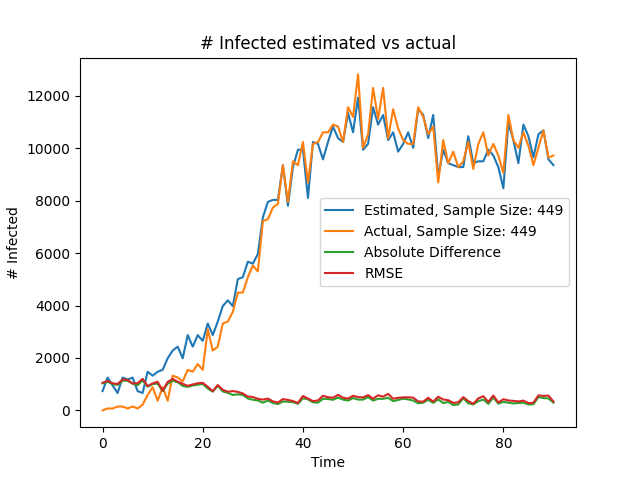
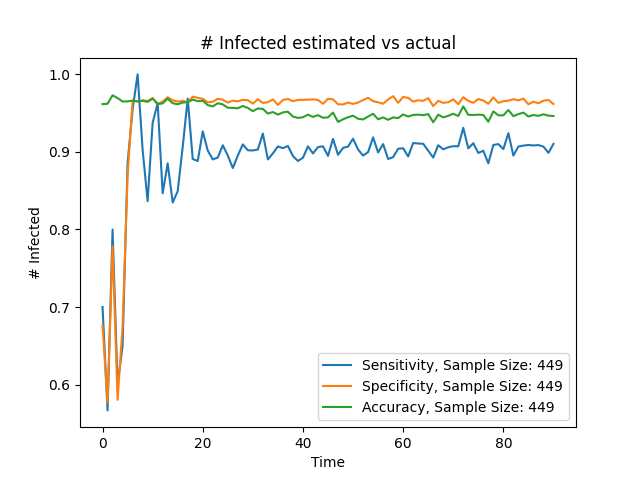
Added test statistics

diff --git a/epios/post_process.py b/epios/post_process.py
@@ -658,16 +658,25 @@ class PostProcess():
                     for i in range(len(time_sample)):
 
                         #infected_rate.append(ite.iloc[i].value_counts().get('Positive', 0) / len(people))
-                        est_rate = ite.iloc[i].value_counts().get('[Positive, True]', 0) / len(people)
-                        est_rate += ite.iloc[i].value_counts().get('[Positive, False]', 0) / len(people)
+                        #est_rate = ite.iloc[i].value_counts().get('[Positive, True]', 0) / len(people)
+                        #est_rate += ite.iloc[i].value_counts().get('[Positive, False]', 0) / len(people)
 
-                        act_rate = ite.iloc[i].value_counts().get('[Positive, True]', 0) / len(people)
-                        act_rate += ite.iloc[i].value_counts().get('[Negative, False]', 0) / len(people)
+                        #act_rate = ite.iloc[i].value_counts().get('[Positive, True]', 0) / len(people)
+                        #act_rate += ite.iloc[i].value_counts().get('[Negative, False]', 0) / len(people)
 
-                        estimated_infected_rate.append(est_rate)
-                        actual_infected_rate.append(act_rate)
+                        #estimated_infected_rate.append(est_rate)
+                        #actual_infected_rate.append(act_rate)
 
-                        infected_rate.append([est_rate, act_rate])
+                        #infected_rate.append([est_rate, act_rate])
+
+                        TP = ite.iloc[i].value_counts().get('[Positive, True]', 0) / len(people)
+                        FP = ite.iloc[i].value_counts().get('[Positive, False]', 0) / len(people)
+                        TN = ite.iloc[i].value_counts().get('[Negative, True]', 0) / len(people)
+                        FN = ite.iloc[i].value_counts().get('[Negative, False]', 0) / len(people)
+
+                        #infected_rate.append([est_rate, act_rate])
+
+                        infected_rate.append([TP, FP, TN, FN])
 
                 elif sample_strategy == 'Random':  # Change people sampled at each sample time point
 
@@ -701,16 +710,23 @@ class PostProcess():
                         # Output the infected rate
                         #infected_rate.append(ite.iloc[0].value_counts().get('Positive', 0) / len(people))
 
-                        est_rate = ite.iloc[0].value_counts().get('[Positive, True]', 0) / len(people)
-                        est_rate += ite.iloc[0].value_counts().get('[Positive, False]', 0) / len(people)
+                        #est_rate = ite.iloc[0].value_counts().get('[Positive, True]', 0) / len(people)
+                        #est_rate += ite.iloc[0].value_counts().get('[Positive, False]', 0) / len(people)
 
-                        act_rate = ite.iloc[0].value_counts().get('[Positive, True]', 0) / len(people)
-                        act_rate += ite.iloc[0].value_counts().get('[Negative, False]', 0) / len(people)
+                        #act_rate = ite.iloc[0].value_counts().get('[Positive, True]', 0) / len(people)
+                        #act_rate += ite.iloc[0].value_counts().get('[Negative, False]', 0) / len(people)
 
-                        estimated_infected_rate.append(est_rate)
-                        actual_infected_rate.append(act_rate)
+                        #estimated_infected_rate.append(est_rate)
+                        #actual_infected_rate.append(act_rate)
 
-                        infected_rate.append([est_rate, act_rate])
+                        #infected_rate.append([est_rate, act_rate])
+
+                        TP = ite.iloc[0].value_counts().get('[Positive, True]', 0) / len(people)
+                        FP = ite.iloc[0].value_counts().get('[Positive, False]', 0) / len(people)
+                        TN = ite.iloc[0].value_counts().get('[Negative, True]', 0) / len(people)
+                        FN = ite.iloc[0].value_counts().get('[Negative, False]', 0) / len(people)
+
+                        infected_rate.append([TP, FP, TN, FN])
 
             # Plot the figure
             if gen_plot:
@@ -777,23 +793,21 @@ class PostProcess():
 
                     #infected_rate.append(ite.iloc[i].value_counts().get('Positive', 0) / len(people))
 
-                    est_rate = ite.iloc[i].value_counts().get('[Positive, True]', 0) / len(people)
-                    est_rate += ite.iloc[i].value_counts().get('[Positive, False]', 0) / len(people)
+                    TP = ite.iloc[i].value_counts().get('[Positive, True]', 0) / len(people)
+                    FP = ite.iloc[i].value_counts().get('[Positive, False]', 0) / len(people)
+                    TN = ite.iloc[i].value_counts().get('[Negative, True]', 0) / len(people)
+                    FN = ite.iloc[i].value_counts().get('[Negative, False]', 0) / len(people)
 
-                    act_rate = ite.iloc[i].value_counts().get('[Positive, True]', 0) / len(people)
-                    act_rate += ite.iloc[i].value_counts().get('[Negative, False]', 0) / len(people)
+                    #infected_rate.append([est_rate, act_rate])
 
-                    estimated_infected_rate.append(est_rate)
-                    actual_infected_rate.append(act_rate)
-
-                    infected_rate.append([est_rate, act_rate])
+                    infected_rate.append([TP, FP, TN, FN])
 
 
 
             elif sample_strategy == 'Random':  # Change people sampled at each sample time point
                 infected_rate = []
-                estimated_infected_rate = []
-                actual_infected_rate = []
+                #estimated_infected_rate = []
+                #actual_infected_rate = []
 
                 for i in range(len(time_sample)):  # Sample at each sample time points
                     if i == 0:  # First time sampling, need pre_process
@@ -822,10 +836,10 @@ class PostProcess():
 
                     # Get # true positive, false positive, true negative and false negative
 
-                    TP = ite.iloc[0].value_counts().get('[Positive, True]', 0)
-                    FP = ite.iloc[0].value_counts().get('[Positive, False]', 0)
-                    TN = ite.iloc[0].value_counts().get('[Negative, True]', 0)
-                    FN = ite.iloc[0].value_counts().get('[Negative, False]', 0)
+                    TP = ite.iloc[0].value_counts().get('[Positive, True]', 0) / len(people)
+                    FP = ite.iloc[0].value_counts().get('[Positive, False]', 0) / len(people)
+                    TN = ite.iloc[0].value_counts().get('[Negative, True]', 0) / len(people)
+                    FN = ite.iloc[0].value_counts().get('[Negative, False]', 0) / len(people)
 
                     #print("TP: ", TP)
                     #print("FP: ", FP)
@@ -834,16 +848,18 @@ class PostProcess():
 
 
 
-                    est_rate = TP / len(people)
-                    est_rate += FP / len(people)
+                    #est_rate = TP / len(people)
+                    #est_rate += FP / len(people)
 
-                    act_rate = TP / len(people)
-                    act_rate += FN / len(people)
+                    #act_rate = TP / len(people)
+                    #act_rate += FN / len(people)
 
-                    estimated_infected_rate.append(est_rate)
-                    actual_infected_rate.append(act_rate)
+                    #estimated_infected_rate.append(est_rate)
+                    #actual_infected_rate.append(act_rate)
 
-                    infected_rate.append([est_rate, act_rate])
+                    #infected_rate.append([est_rate, act_rate])
+
+                    infected_rate.append([TP, FP, TN, FN])
 
             # Plot the figure
             if gen_plot:

diff --git a/gibraltar_ex/accuracy_measure.py b/gibraltar_ex/accuracy_measure.py
@@ -240,6 +240,11 @@ def get_prevalence_percentage_error(sample_times,
         total_differences = np.zeros(len(sample_times))
         total_square_differences = total_differences.copy()
 
+
+        total_sensitivity = np.zeros(len(sample_times))
+        total_specificity = np.zeros(len(sample_times))
+        total_test_accuracy = np.zeros(len(sample_times))
+
         # Run multiple iterations
         for _ in range(num_iterations):  # Change the number of iterations as needed
 
@@ -263,8 +268,28 @@ def get_prevalence_percentage_error(sample_times,
 
             pop_size = len(demo_data) # get population size
 
-            est_infected = [r[0] * pop_size for r in result]      
-            act_infected = [r[1] * pop_size for r in result]    
+            TP =[r[0] * pop_size for r in result]
+            FP =[r[1] * pop_size for r in result]
+            TN =[r[2] * pop_size for r in result]
+            FN =[r[3] * pop_size for r in result]
+
+            est_infected = [TP[i] + FP[i] for i in range(len(TP))]
+            act_infected = [TP[i] + FN[i] for i in range(len(TP))]
+
+            
+        
+
+            sensitivity = [0 if TP[i] == 0 else TP[i] / (TP[i] + FN[i]) for i in range(len(TP))]
+            specificity = [0 if TP[i] == 0 else TN[i] / (TN[i] + FP[i]) for i in range(len(TP))]
+            test_accuracy = [(TP[i] + TN[i])/(TP[i] + TN[i] + FP[i] + FN[i]) for i in range(len(TP))]
+
+            total_sensitivity = [total_sensitivity[i] + sensitivity[i] for i in range(len(sensitivity))]
+            total_specificity = [total_specificity[i] + specificity[i] for i in range(len(specificity))]
+            total_test_accuracy = [total_test_accuracy[i] + test_accuracy[i] for i in range(len(test_accuracy))]
+
+
+            #est_infected = [r[0] * pop_size for r in result]      
+            #act_infected = [r[1] * pop_size for r in result]    
 
             difference = [abs(est_infected[i] - act_infected[i]) for i in range(len(est_infected))]
 
@@ -284,12 +309,29 @@ def get_prevalence_percentage_error(sample_times,
 
         rmse = [np.sqrt(av_square_difference[i]) for i in range(len(av_square_difference))]
 
+        av_sensitivity = [total_sensitivity[i] / num_iterations for i in range(len(total_sensitivity))]
+        av_specificity = [total_specificity[i] / num_iterations for i in range(len(total_specificity))]
+        av_test_accuracy = [total_test_accuracy[i] / num_iterations for i in range(len(total_test_accuracy))]
 
-        plt.plot(sample_times, est_infected, label=f"Estimated, Sample Size: {sample_size}")
-        plt.plot(sample_times, act_infected, label=f"Actual, Sample Size: {sample_size}")
-        plt.plot(sample_times, absolute_difference, label="Absolute Difference")
-        plt.plot(sample_times, rmse, label="RMSE")
-        #plt.plot(sample_times, average_difference, label="Expected Absolute Difference")
+        plot_time_graphs = False
+
+        if plot_time_graphs:
+
+            plt.plot(sample_times, est_infected, label=f"Estimated, Sample Size: {sample_size}")
+            plt.plot(sample_times, act_infected, label=f"Actual, Sample Size: {sample_size}")
+            plt.plot(sample_times, absolute_difference, label="Absolute Difference")
+            plt.plot(sample_times, rmse, label="RMSE")
+            #plt.plot(sample_times, average_difference, label="Expected Absolute Difference")
+
+        plot_test_statistics = True
+
+        if plot_test_statistics:
+
+            plt.plot(sample_times, av_sensitivity, label=f"Sensitivity, Sample Size: {sample_size}")
+            plt.plot(sample_times, av_specificity, label=f"Specificity, Sample Size: {sample_size}")
+            plt.plot(sample_times, av_test_accuracy, label=f"Accuracy, Sample Size: {sample_size}")
+
+
 
 
     plt.xlabel('Time')
